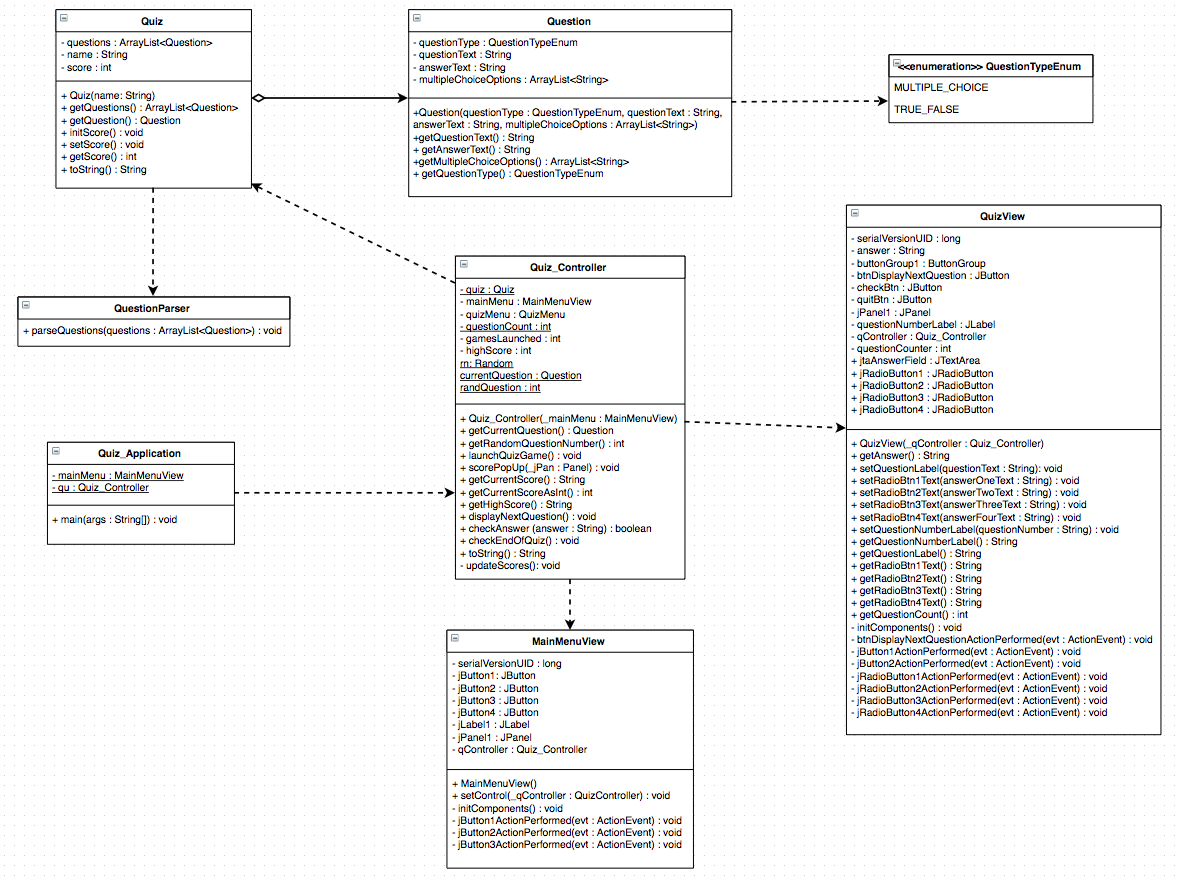
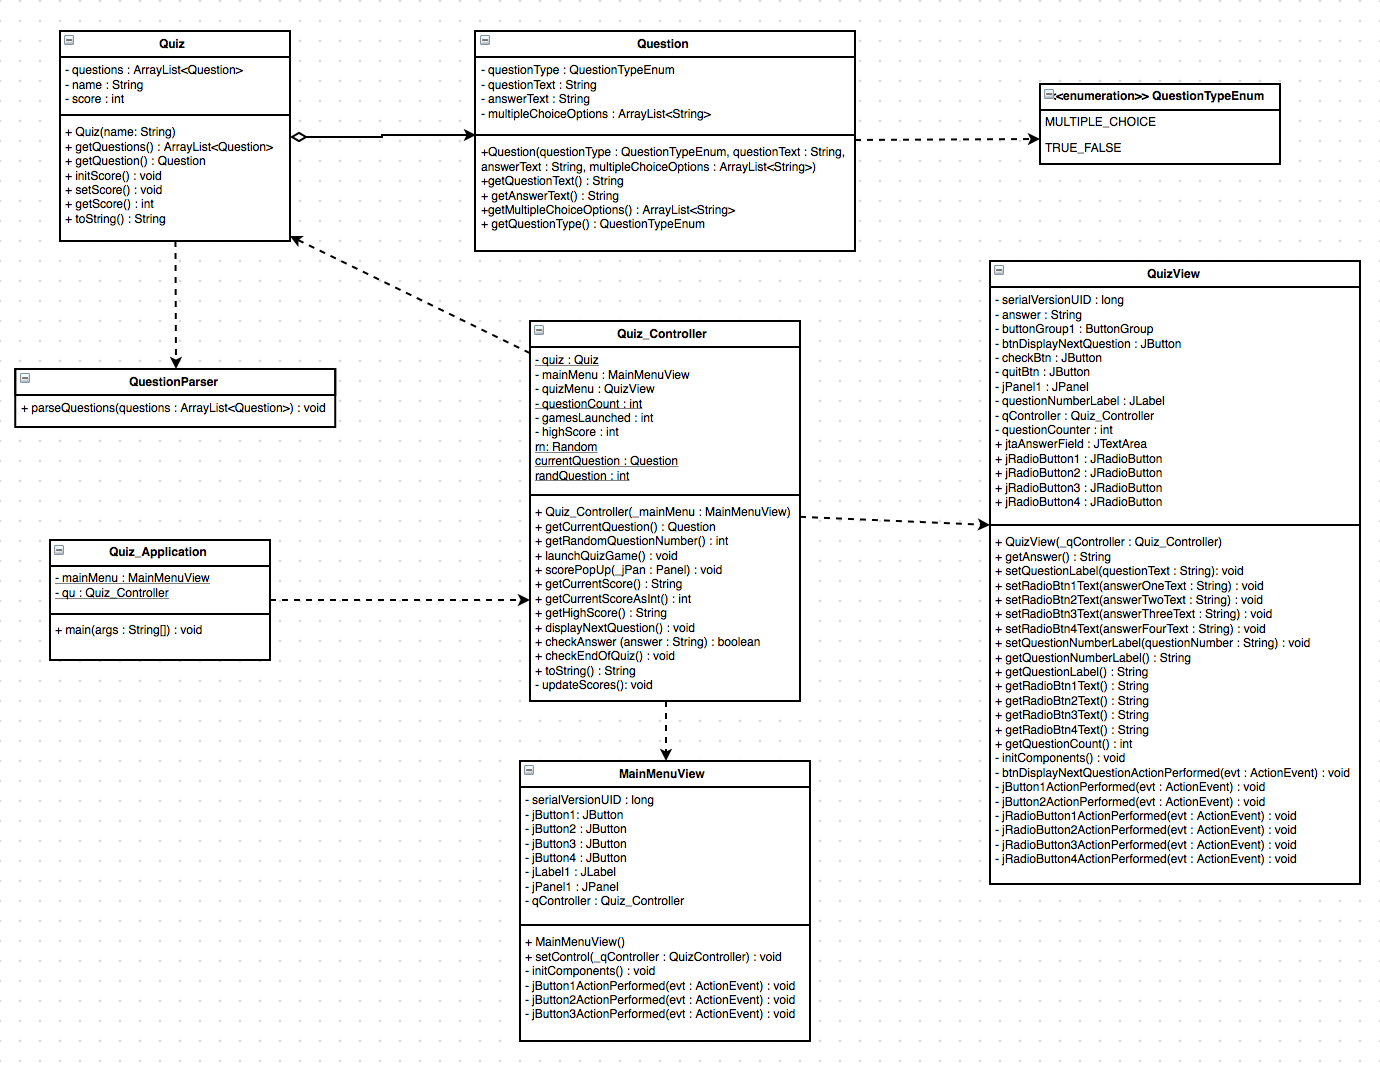
Updated class diagram
Also moved checkEndOfQuiz method into launchQuizGame method

diff --git a/src/controller/Quiz_Controller.java b/src/controller/Quiz_Controller.java
@@ -56,6 +56,7 @@ public class Quiz_Controller {
     System.out.println("Launch the main menu view here");
     quizMenu = new QuizView(this);//this line starts the quiz screen
     displayNextQuestion();
+    checkEndOfQuiz();
             
     try 
     {
@@ -163,12 +164,10 @@ public class Quiz_Controller {
     if(answer.equals(currentQuestion.getAnswerText())) {
       System.out.println("YOU GOT IT CORRECT, AWESOME!!!");
       updateScores();
-      checkEndOfQuiz();
       return true;    
     } else {
       System.out.println("YOU GOT IT WRONG, NOT AWESOME!!!");
       //Dont add to score
-      checkEndOfQuiz();
       return false;    
     }   
   }
